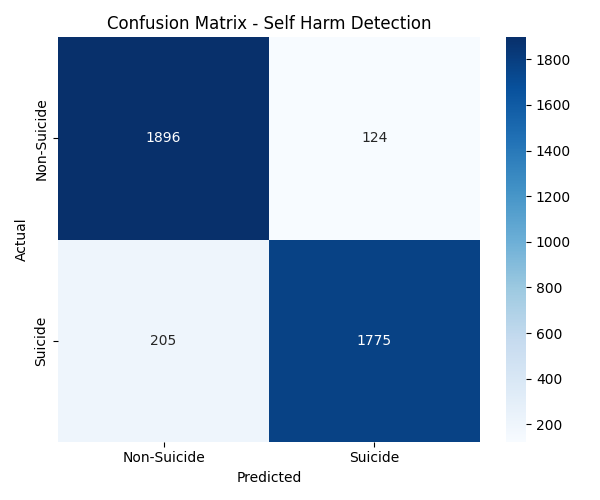
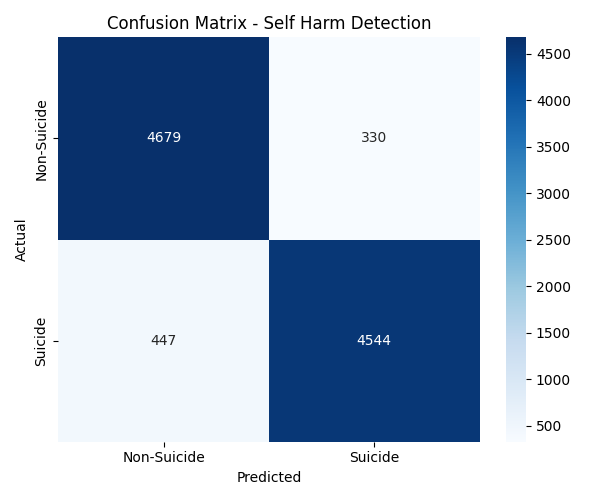
improvement: retrained on 50k dataset - accuracy improved from 91.8% to 92.2%

diff --git a/backend/model/train_model.py b/backend/model/train_model.py
@@ -23,7 +23,7 @@ def load_data(filepath):
     print("Loading dataset...")
     df = pd.read_csv(filepath)
     df.dropna(subset=['text', 'class'], inplace=True)
-    # Using full dataset for maximum accuracy
+    df = df.sample(n=50000, random_state=42)
     print(f"Total samples : {len(df)}")
     print(f"Class distribution:\n{df['class'].value_counts()}")
     return df
@@ -57,9 +57,9 @@ def train_models(df):
 
     print("\nBuilding TF-IDF features...")
     tfidf = TfidfVectorizer(
-        max_features=5000,
+        max_features=3000,
         ngram_range=(1, 2),
-        min_df=3
+        min_df=5
     )
     X_tfidf = tfidf.fit_transform(df['clean_text']).toarray()
 
@@ -144,7 +144,7 @@ def save_model(model, tfidf):
 if __name__ == "__main__":
     print("="*55)
     print("  SELF HARM DETECTION - MODEL TRAINING")
-    print("  Training on FULL 232k dataset")
+    print("  Training on 50k samples - optimized for RAM")
     print("="*55)
 
     df = load_data('data/Suicide_Detection.csv')
